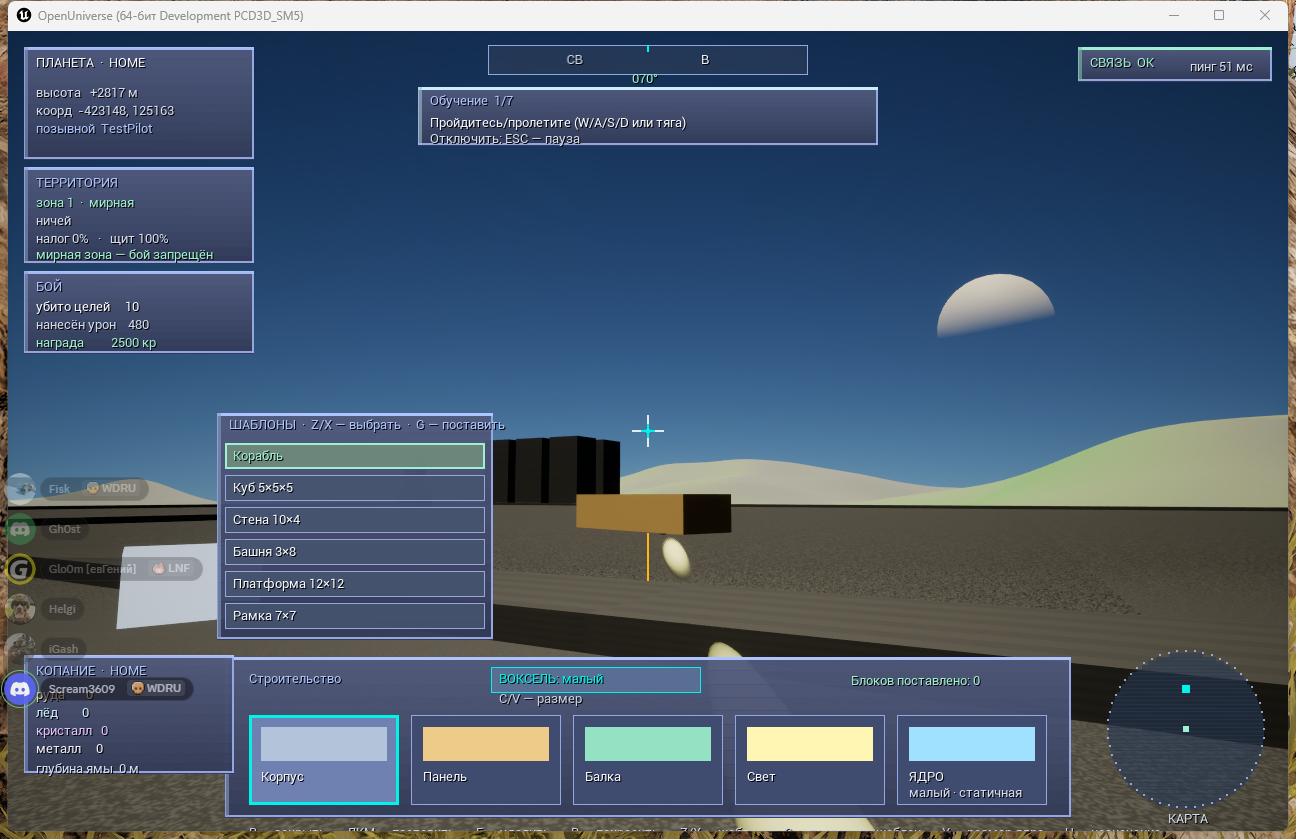
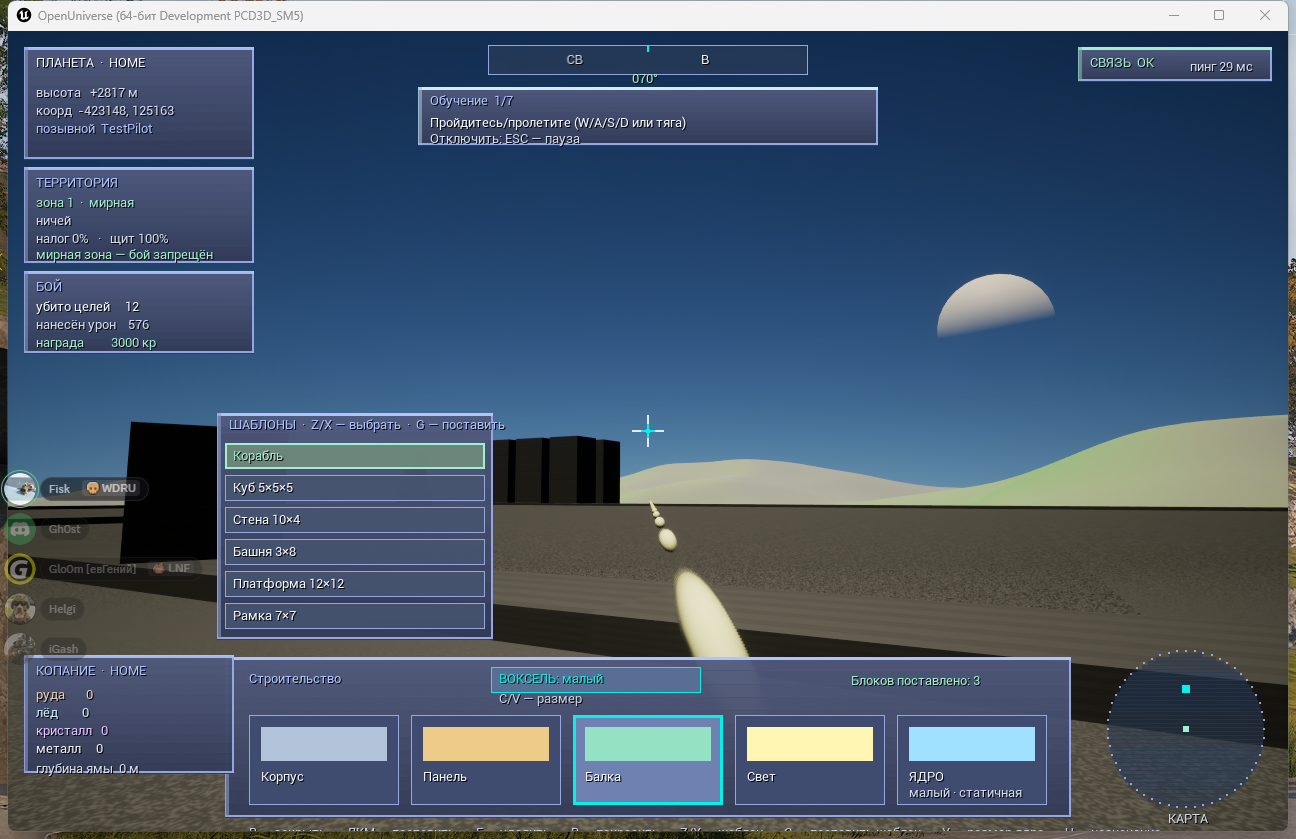
feat(build): build voxels without a pre-placed core - the first voxel founds the build (it becomes the core); such a build does not consume the core limit; protocol carries counted flag; tests for build-without-core

diff --git a/data.js b/data.js
@@ -99,6 +99,7 @@ window.PLAN = {
         { "title": "Типы двигателей: атмосферный/ионный/универсальный (клавиша J; тяга зависит от высоты, бит-в-бит с сервером)", "title_en": "Engine types: atmospheric/ion/universal (key J; thrust depends on altitude, bit-exact with the server)", "status": "done" },
         { "title": "Сетка деталей и «ядра» конструкций", "title_en": "Part and construction core grid", "status": "done" },
         { "title": "Несколько ядер на игрока с лимитами (2 базы / 3 корабля / 2 динамических; тип «орбитальное» → «динамическое»; своё активное ядро)", "title_en": "Multiple cores per player with per-kind limits (2 base / 3 ship / 2 dynamic; \"orbital\" renamed to \"dynamic\"; own active core)", "status": "done" },
+        { "title": "Строительство без ядра (первый воксель сам основывает постройку; такая постройка не тратит лимит ядер; кубы разного размера стыкуются без наложения)", "title_en": "Building without a core (the first voxel founds the build; such a build does not consume a core limit; mixed-size cubes connect without overlap)", "status": "done" },
         { "title": "Валидация физической целостности", "title_en": "Physical integrity validation", "status": "done" },
         { "title": "Совместное строительство: репликация правок, выдача прав (H) и индикатор прав в UE", "title_en": "Co-op building: edit replication, granting rights (H) and a rights indicator in UE", "status": "done" },
         { "title": "Редактор в игре: ставить / удалять / красить (прицел, Е/R)", "title_en": "In-game editor: place / remove / paint (crosshair, E/R)", "status": "done" },

diff --git a/server/crates/server/src/lib.rs b/server/crates/server/src/lib.rs
@@ -301,6 +301,9 @@ pub struct Server {
     pub core_owner: BTreeMap<NetId, NetId>,
     /// Ядра игрока: игрок → список id ядер (в порядке постановки).
     pub player_cores: BTreeMap<NetId, Vec<NetId>>,
+    /// Ядра, поставленные ЯВНО (через `place_core_as`) — только они считаются в
+    /// лимиты. Постройка, основанная первым вокселем (без ядра), в лимит не идёт.
+    pub counted_cores: BTreeSet<NetId>,
     /// Следующий свободный id ядра.
     next_core_id: NetId,
     /// Корпус каждой сущности: щит, броня, критические повреждения.
@@ -460,6 +463,7 @@ impl Server {
             constructions: BTreeMap::new(),
             core_owner: BTreeMap::new(),
             player_cores: BTreeMap::new(),
+            counted_cores: BTreeSet::new(),
             next_core_id: 100_000,
             hulls: BTreeMap::new(),
             weapons: BTreeMap::new(),
@@ -866,8 +870,9 @@ impl Server {
         let Some(c) = self.constructions.get_mut(&cmd.entity) else {
             return BuildReason::Invalid;
         };
-        // Строить можно только в существующем ядре и только с правами.
-        if !c.can_edit(author) || !c.grid.founded() {
+        // Строить можно в существующую постройку и только с правами. Постройку без
+        // ядра тоже можно — первый воксель сам её основывает (ядро встанет на него).
+        if !c.can_edit(author) {
             return BuildReason::Invalid;
         }
         let color = BuildColor(cmd.color.0, cmd.color.1, cmd.color.2);
@@ -878,9 +883,14 @@ impl Server {
         };
         match res {
             Ok(()) => {
+                // Постройка могла «основаться» первым вокселем (ядра не было):
+                // тогда регистрируем её как ядро владельца — иначе автор не
+                // получит снимок (репликация идёт по списку ядер игрока).
+                self.note_founded(cmd.entity);
                 // Записываем правку и готовим её к рассылке ВСЕМ, включая автора:
                 // клиент рисует только то, что сервер авторитетно принял. Иначе
                 // автор не увидел бы свой блок (а при отказе — нарисовал бы лишнее).
+                let c = self.constructions.get_mut(&cmd.entity).unwrap();
                 c.revision += 1;
                 let edit = BuildEdit {
                     entity: cmd.entity,
@@ -899,6 +909,26 @@ impl Server {
             Err(BuildError::TooManyVoxels { .. }) => BuildReason::LimitReached,
             Err(BuildError::Disconnected(_)) => BuildReason::Disconnected,
             Err(_) => BuildReason::Invalid,
+        }
+    }
+
+    /// Если постройка основана (есть ядро), а как «постройка игрока» ещё не
+    /// учтена — регистрируем её: владелец и список. Так постройка, основанная
+    /// первым вокселем (без отдельной постановки ядра), попадает в репликацию.
+    /// В лимит ядер такая постройка НЕ идёт (её нет в `counted_cores`).
+    fn note_founded(&mut self, entity: NetId) {
+        let owner = match self.constructions.get(&entity) {
+            Some(c) if c.grid.founded() => c.owner,
+            _ => return,
+        };
+        // Уже учтено как ядро — ничего не делаем.
+        if self.core_owner.get(&entity) == Some(&owner) {
+            return;
+        }
+        self.core_owner.insert(entity, owner);
+        let ids = self.player_cores.entry(owner).or_default();
+        if !ids.contains(&entity) {
+            ids.push(entity);
         }
     }
 
@@ -1004,6 +1034,7 @@ impl Server {
         }
 
         // Лимиты ядер по назначению: базы — 2, корабли — 3, динамические — 2.
+        // Считаем только ЯВНО поставленные ядра (автооснованные постройки — нет).
         let (limit, kind_name) = match kind {
             0 => (START_CORE_BASE, "статичная база"),
             1 => (START_CORE_SHIP, "корабль"),
@@ -1014,6 +1045,7 @@ impl Server {
             .get(&player)
             .map(|ids| {
                 ids.iter()
+                    .filter(|id| self.counted_cores.contains(id))
                     .filter(|id| {
                         self.constructions
                             .get(id)
@@ -1035,11 +1067,17 @@ impl Server {
             64 => 3,
             _ => 1,
         };
-        // Первое ядро занимает стартовую постройку игрока (её id — сущность
-        // игрока): клиент уже подключается к ней. Последующие ядра — новые
-        // постройки со своими id (≥ 100000).
-        if self.player_cores.get(&player).map(|v| v.is_empty()).unwrap_or(true) {
-            let entity = self.entity_of(player);
+        // Первое ЯВНОЕ ядро занимает стартовую (пустую) постройку игрока — её id
+        // равен сущности игрока. Если игрок сначала построил воксели без ядра
+        // (постройка основалась сама), стартовая постройка уже не пуста: тогда
+        // создаём НОВОЕ ядро, чтобы не затирать его работу.
+        let entity = self.entity_of(player);
+        let start_free = self
+            .constructions
+            .get(&entity)
+            .map(|c| !c.grid.founded())
+            .unwrap_or(true);
+        if start_free {
             let c = self
                 .constructions
                 .entry(entity)
@@ -1048,7 +1086,11 @@ impl Server {
             c.revision += 1;
             c.pending.clear();
             self.core_owner.insert(entity, player);
-            self.player_cores.entry(player).or_default().push(entity);
+            self.counted_cores.insert(entity);
+            let ids = self.player_cores.entry(player).or_default();
+            if !ids.contains(&entity) {
+                ids.push(entity);
+            }
             return Ok((entity, spec));
         }
         let id = self.next_core_id;
@@ -1059,6 +1101,7 @@ impl Server {
         // Ядро сразу занимает свою ячейку — полная выгрузка при первом синке.
         self.constructions.insert(id, c);
         self.core_owner.insert(id, player);
+        self.counted_cores.insert(id);
         self.player_cores.entry(player).or_default().push(id);
         Ok((id, spec))
     }
@@ -2601,6 +2644,7 @@ impl Server {
                         size: spec.size as u8,
                         kind: spec.kind,
                         coord: c.grid.core(),
+                        counted: self.counted_cores.contains(&entity),
                     });
                 }
                 for e in edits {
@@ -2961,6 +3005,57 @@ mod tests {
         assert_eq!(r, BuildReason::Ok);
         let g = s.constructions.get(&core).unwrap();
         assert_eq!(g.grid.len(), 2, "ядро + новый воксель");
+    }
+
+    #[test]
+    fn building_without_explicit_core_founds_the_build() {
+        // Игрок со старта может строить БЕЗ отдельной постановки ядра: первый
+        // воксель основывает постройку (её id — сущность игрока), и она попадает
+        // в репликацию владельцу.
+        let mut s = Server::new();
+        let e = s.connect_on_planet(1); // ядро НЕ ставим
+        // Первый блок — принимается (постройка основывается сама).
+        let r = s.apply_build_as(1, &cmd_in(e, BuildAction::Place, (0, 0, 0)));
+        assert_eq!(r, BuildReason::Ok, "без ядра первый блок можно");
+        let c = s.constructions.get(&e).unwrap();
+        assert_eq!(c.grid.len(), 1, "в постройке один воксель (он же ядро)");
+        assert!(c.grid.founded(), "постройка основана первым блоком");
+        // Постройка учтена как постройка игрока (пойдёт в репликацию).
+        assert_eq!(s.core_owner.get(&e).copied(), Some(1), "владелец записан");
+        assert_eq!(s.player_cores.get(&1).map(|v| v.contains(&e)), Some(true), "ядро в списке игрока");
+        // Второй блок в пустоте (в границах куба ядра, но без связи) — отклонён.
+        assert_eq!(
+            s.apply_build_as(1, &cmd_in(e, BuildAction::Place, (5, 5, 0))),
+            BuildReason::Disconnected
+        );
+        // Второй блок рядом — принимается.
+        assert_eq!(
+            s.apply_build_as(1, &cmd_in(e, BuildAction::Place, (1, 0, 0))),
+            BuildReason::Ok
+        );
+        assert_eq!(s.constructions[&e].grid.len(), 2);
+    }
+
+    #[test]
+    fn auto_founded_build_does_not_consume_core_limit() {
+        // Постройка, основанная вокселем без ядра, НЕ тратит лимит ядер: игрок
+        // всё ещё может поставить 2 базы + 3 корабля + 2 динамических ЯВНО.
+        let mut s = Server::new();
+        let e = s.connect_on_planet(1);
+        s.apply_build_as(1, &cmd_in(e, BuildAction::Place, (0, 0, 0))); // автооснование
+        assert!(s.place_core_as(1, 16, 0, (100, 0, 0)).is_ok(), "1-я база");
+        assert!(s.place_core_as(1, 16, 0, (140, 0, 0)).is_ok(), "2-я база");
+        assert!(s.place_core_as(1, 16, 0, (180, 0, 0)).is_err(), "3-я база — лимит");
+    }
+
+    #[test]
+    fn explicit_core_reuses_empty_start_build() {
+        // Если игрок НЕ строил воксели, первое явное ядро занимает стартовую
+        // постройку (её id = сущность игрока), а не создаёт отдельную.
+        let mut s = Server::new();
+        let e = s.connect_on_planet(1);
+        let (core, _) = s.place_core_as(1, 32, 0, (0, 0, 0)).unwrap();
+        assert_eq!(core, e, "первое ядро — стартовая постройка игрока");
     }
 
     #[test]
@@ -4454,7 +4549,7 @@ mod tests {
     fn core_message_roundtrips_on_wire() {
         let c = Message::ClientPlaceCore { size: 32, kind: 2, coord: (1, -2, 3) };
         assert_eq!(ou_protocol::decode(&ou_protocol::encode(&c)).unwrap(), c);
-        let s = Message::ServerCore { entity: 7, owner: 3, size: 16, kind: 0, coord: (0, 0, 0) };
+        let s = Message::ServerCore { entity: 7, owner: 3, size: 16, kind: 0, coord: (0, 0, 0), counted: true };
         assert_eq!(ou_protocol::decode(&ou_protocol::encode(&s)).unwrap(), s);
         let r = Message::ServerCoreResult { ok: false, message: "нет".to_string() };
         assert_eq!(ou_protocol::decode(&ou_protocol::encode(&r)).unwrap(), r);

diff --git a/server/crates/build/src/lib.rs b/server/crates/build/src/lib.rs
@@ -347,6 +347,13 @@ impl VoxelGrid {
     /// Поставить воксель размера `size` (1/2/3) минимальным углом в `c`.
     pub fn place_sized(&mut self, c: Coord, color: Color, size: u8) -> Result<(), BuildError> {
         let size = size.clamp(1, 3);
+        // Постройка ещё не основана (ядра нет): первый воксель сам задаёт ядро —
+        // границы считаем от него, а не от начала координат. Так игрок может
+        // строить сразу, без отдельной постановки ядра (ядро встанет на блок).
+        if !self.founded {
+            self.core = c;
+            self.core_voxel_size = size;
+        }
         // Все единичные ячейки нового куба — в границах и не заняты.
         let occ = self.occupancy();
         for cell in Self::voxel_cells(c, size) {
@@ -365,14 +372,15 @@ impl VoxelGrid {
         }
         // Примыкание по граням: хотя бы одна ячейка нового куба касается
         // существующего вокселя (общая грань). Первый воксель игрока основывает
-        // постройку (ядро переезжает на него).
+        // постройку — он же становится ядром (можно строить без отдельного ядра).
         if !self.touches_occupied(&occ, c, size) {
-            if !self.founded && self.voxels.len() <= 1 {
-                self.voxels.clear();
-                self.core = c;
-                self.core_voxel_size = size;
+            if !self.founded {
                 self.voxels.insert(c, Voxel::new(color, size));
                 self.founded = true;
+                // Размер ядра-основания — по размеру вокселя (1→16, 2→32, 3→64),
+                // назначение по умолчанию — статичная база.
+                let core_size = match size { 3 => 64, 2 => 32, _ => 16 };
+                self.spec = CoreSpec { size: core_size, kind: 0 };
                 return Ok(());
             }
             return Err(BuildError::Disconnected(c));

diff --git a/server/crates/protocol/src/lib.rs b/server/crates/protocol/src/lib.rs
@@ -293,8 +293,9 @@ pub enum Message {
     ///
     /// `entity` — id ядра (ключ постройки, ≥ 100000), `owner` — игрок-владелец
     /// (по нему клиент считает свои ядра и лимиты), `size`/`kind` — параметры,
-    /// `coord` — ячейка ядра в сетке.
-    ServerCore { entity: NetId, owner: NetId, size: u8, kind: u8, coord: (i32, i32, i32) },
+    /// `coord` — ячейка ядра в сетке. `counted` — поставлено ли ядро ЯВНО (идёт в
+    /// лимит); постройка, основанная первым вокселем без ядра, — `counted=false`.
+    ServerCore { entity: NetId, owner: NetId, size: u8, kind: u8, coord: (i32, i32, i32), counted: bool },
     /// Сервер: отказ в установке ядра (не подходит место и т. п.).
     ServerCoreResult { ok: bool, message: String },
     /// Сервер: список территорий системы (владение, статус, налог) для HUD.
@@ -1311,7 +1312,7 @@ mod wire {
                 w.i32(coord.1);
                 w.i32(coord.2);
             }
-            Message::ServerCore { entity, owner, size, kind, coord } => {
+            Message::ServerCore { entity, owner, size, kind, coord, counted } => {
                 w.u8(TAG_CORE);
                 w.varint(*entity as u64);
                 w.varint(*owner as u64);
@@ -1320,6 +1321,7 @@ mod wire {
                 w.i32(coord.0);
                 w.i32(coord.1);
                 w.i32(coord.2);
+                w.bool(*counted);
             }
             Message::ServerCoreResult { ok, message } => {
                 w.u8(TAG_CORE_RESULT);
@@ -1790,6 +1792,7 @@ mod wire {
                 size: r.u8()?,
                 kind: r.u8()?,
                 coord: (r.i32()?, r.i32()?, r.i32()?),
+                counted: r.bool().unwrap_or(true),
             }),
             TAG_CORE_RESULT => Ok(Message::ServerCoreResult {
                 ok: r.bool()?,

diff --git a/client/Source/OpenUniverse/OUClientNet.h b/client/Source/OpenUniverse/OUClientNet.h
@@ -102,6 +102,11 @@ struct FOUCoreInfo
 	UPROPERTY(BlueprintReadOnly, Category = "Open Universe|Build")
 	int32 Kind = 0;
 
+	/** Поставлено ли ядро ЯВНО (идёт в лимит). Постройка, основанная первым
+	 *  вокселем без ядра, — false (в лимит не идёт). */
+	UPROPERTY(BlueprintReadOnly, Category = "Open Universe|Build")
+	bool bCounted = true;
+
 	/** Ячейка (мин. угол куба) ядра в общей сетке вокселей. */
 	UPROPERTY(BlueprintReadOnly, Category = "Open Universe|Build")
 	FIntVector Coord = FIntVector::ZeroValue;
@@ -973,14 +978,15 @@ public:
 	UPROPERTY(BlueprintReadOnly, Category = "Open Universe|Build")
 	TArray<FOUCoreInfo> Cores;
 
-	/** Сколько ядер каждого назначения поставил сам игрок (для лимитов). */
+	/** Сколько ЯВНО поставленных ядер каждого назначения у самого игрока
+	 *  (для лимитов). Автооснованные постройки не считаются. */
 	UFUNCTION(BlueprintPure, Category = "Open Universe|Build")
 	int32 OwnCoreCount(int32 Kind) const
 	{
 		int32 N = 0;
 		for (const FOUCoreInfo& C : Cores)
 		{
-			if (C.Owner == OwnEntityId && C.Kind == Kind) { ++N; }
+			if (C.Owner == OwnEntityId && C.Kind == Kind && C.bCounted) { ++N; }
 		}
 		return N;
 	}

diff --git a/client/Source/OpenUniverse/OUClientNet.cpp b/client/Source/OpenUniverse/OUClientNet.cpp
@@ -576,6 +576,12 @@ void UOUClientNet::Poll()
 			if (OUWire::DecodeWelcome(Body.GetData(), static_cast<size_t>(Body.Num()), Entity))
 			{
 				OwnEntityId = Entity;
+				// По умолчанию активная постройка — стартовая (её id = сущность
+				// игрока): так можно строить сразу, без отдельной постановки ядра.
+				if (ActiveCoreId == 0)
+				{
+					ActiveCoreId = Entity;
+				}
 				State = EOUConnState::Connected;
 				UE_LOG(LogOUClient, Log, TEXT("Сервер принял: моя сущность = %d"), Entity);
 			}
@@ -1151,6 +1157,7 @@ void UOUClientNet::Poll()
 					Found->Owner = Owner;
 					Found->Size = NewSize;
 					Found->Kind = NewKind;
+					Found->bCounted = S.Counted;
 					Found->Coord = NewCoord;
 				}
 				else
@@ -1160,6 +1167,7 @@ void UOUClientNet::Poll()
 					C.Owner = Owner;
 					C.Size = NewSize;
 					C.Kind = NewKind;
+					C.bCounted = S.Counted;
 					C.Coord = NewCoord;
 					Cores.Add(C);
 				}

diff --git a/client/Source/OpenUniverse/OUWire.h b/client/Source/OpenUniverse/OUWire.h
@@ -1646,6 +1646,9 @@ namespace OUWire
         uint8_t Size = 0;
         uint8_t Kind = 0;
         int32_t X = 0, Y = 0, Z = 0;
+        /// Поставлено ли ядро ЯВНО (идёт в лимит). Постройка, основанная первым
+        /// вокселем без ядра, — false.
+        bool Counted = true;
     };
 
     inline bool DecodeCore(const uint8_t* body, size_t len, CoreInfo& Out)
@@ -1659,6 +1662,9 @@ namespace OUWire
         Out.Owner = static_cast<uint32_t>(owner);
         if (!r.U8(Out.Size) || !r.U8(Out.Kind)) return false;
         if (!r.I32(Out.X) || !r.I32(Out.Y) || !r.I32(Out.Z)) return false;
+        // Необязательный байт (совместимость): без него считаем ядро «явным».
+        uint8_t counted = 1;
+        Out.Counted = r.U8(counted) ? (counted != 0) : true;
         return true;
     }
 

diff --git a/server/crates/server/src/bin/ou-netd.rs b/server/crates/server/src/bin/ou-netd.rs
@@ -478,6 +478,7 @@ fn main() {
                                             size: spec.size as u8,
                                             kind: spec.kind,
                                             coord,
+                                            counted: true,
                                         },
                                     )
                                     .ok();

diff --git a/plan.md b/plan.md
@@ -126,6 +126,7 @@
 - [x] Типы двигателей: атмосферный/ионный/универсальный (клавиша J; тяга зависит от высоты, бит-в-бит с сервером)
 - [x] Сетка деталей и «ядро» конструкций (ядро нельзя снести; связность проверяется)
 - [x] Несколько ядер на игрока с лимитами (2 базы / 3 корабля / 2 динамических; тип «орбитальное» → «динамическое»; своё активное ядро)
+- [x] Строительство без ядра (первый воксель сам основывает постройку; такая постройка не тратит лимит ядер; кубы разного размера стыкуются без наложения)
 - [x] Валидация физической целостности (`validate`, `prune_disconnected`)
 - [x] Совместное строительство: репликация правок, выдача прав (H) и индикатор прав в UE
 - [x] Воксельный редактор в игре: ставить / удалять / красить (прицел, E/R)

diff --git a/docs/gdd.md b/docs/gdd.md
@@ -55,6 +55,10 @@ Rust (сервер). См. `docs/adr-0001-engine.md`.
 - **корабль** (синее) — ставится где угодно;
 - **динамическое ядро** (фиолетовое) — ставится где угодно (в т.ч. в космосе).
 
+Строить можно и **без отдельной постановки ядра**: первый поставленный воксель
+сам основывает постройку (он же становится её ядром, назначение — статичная
+база). Такая постройка не тратит лимит ядер.
+
 У одного игрока может быть несколько ядер — каждое со своей отдельной
 постройкой. Лимиты: **2 статичных базы, 3 корабля, 2 динамических ядра**.
 Радиус постройки (каркас области ядра) показывается, когда прицел наведён на
